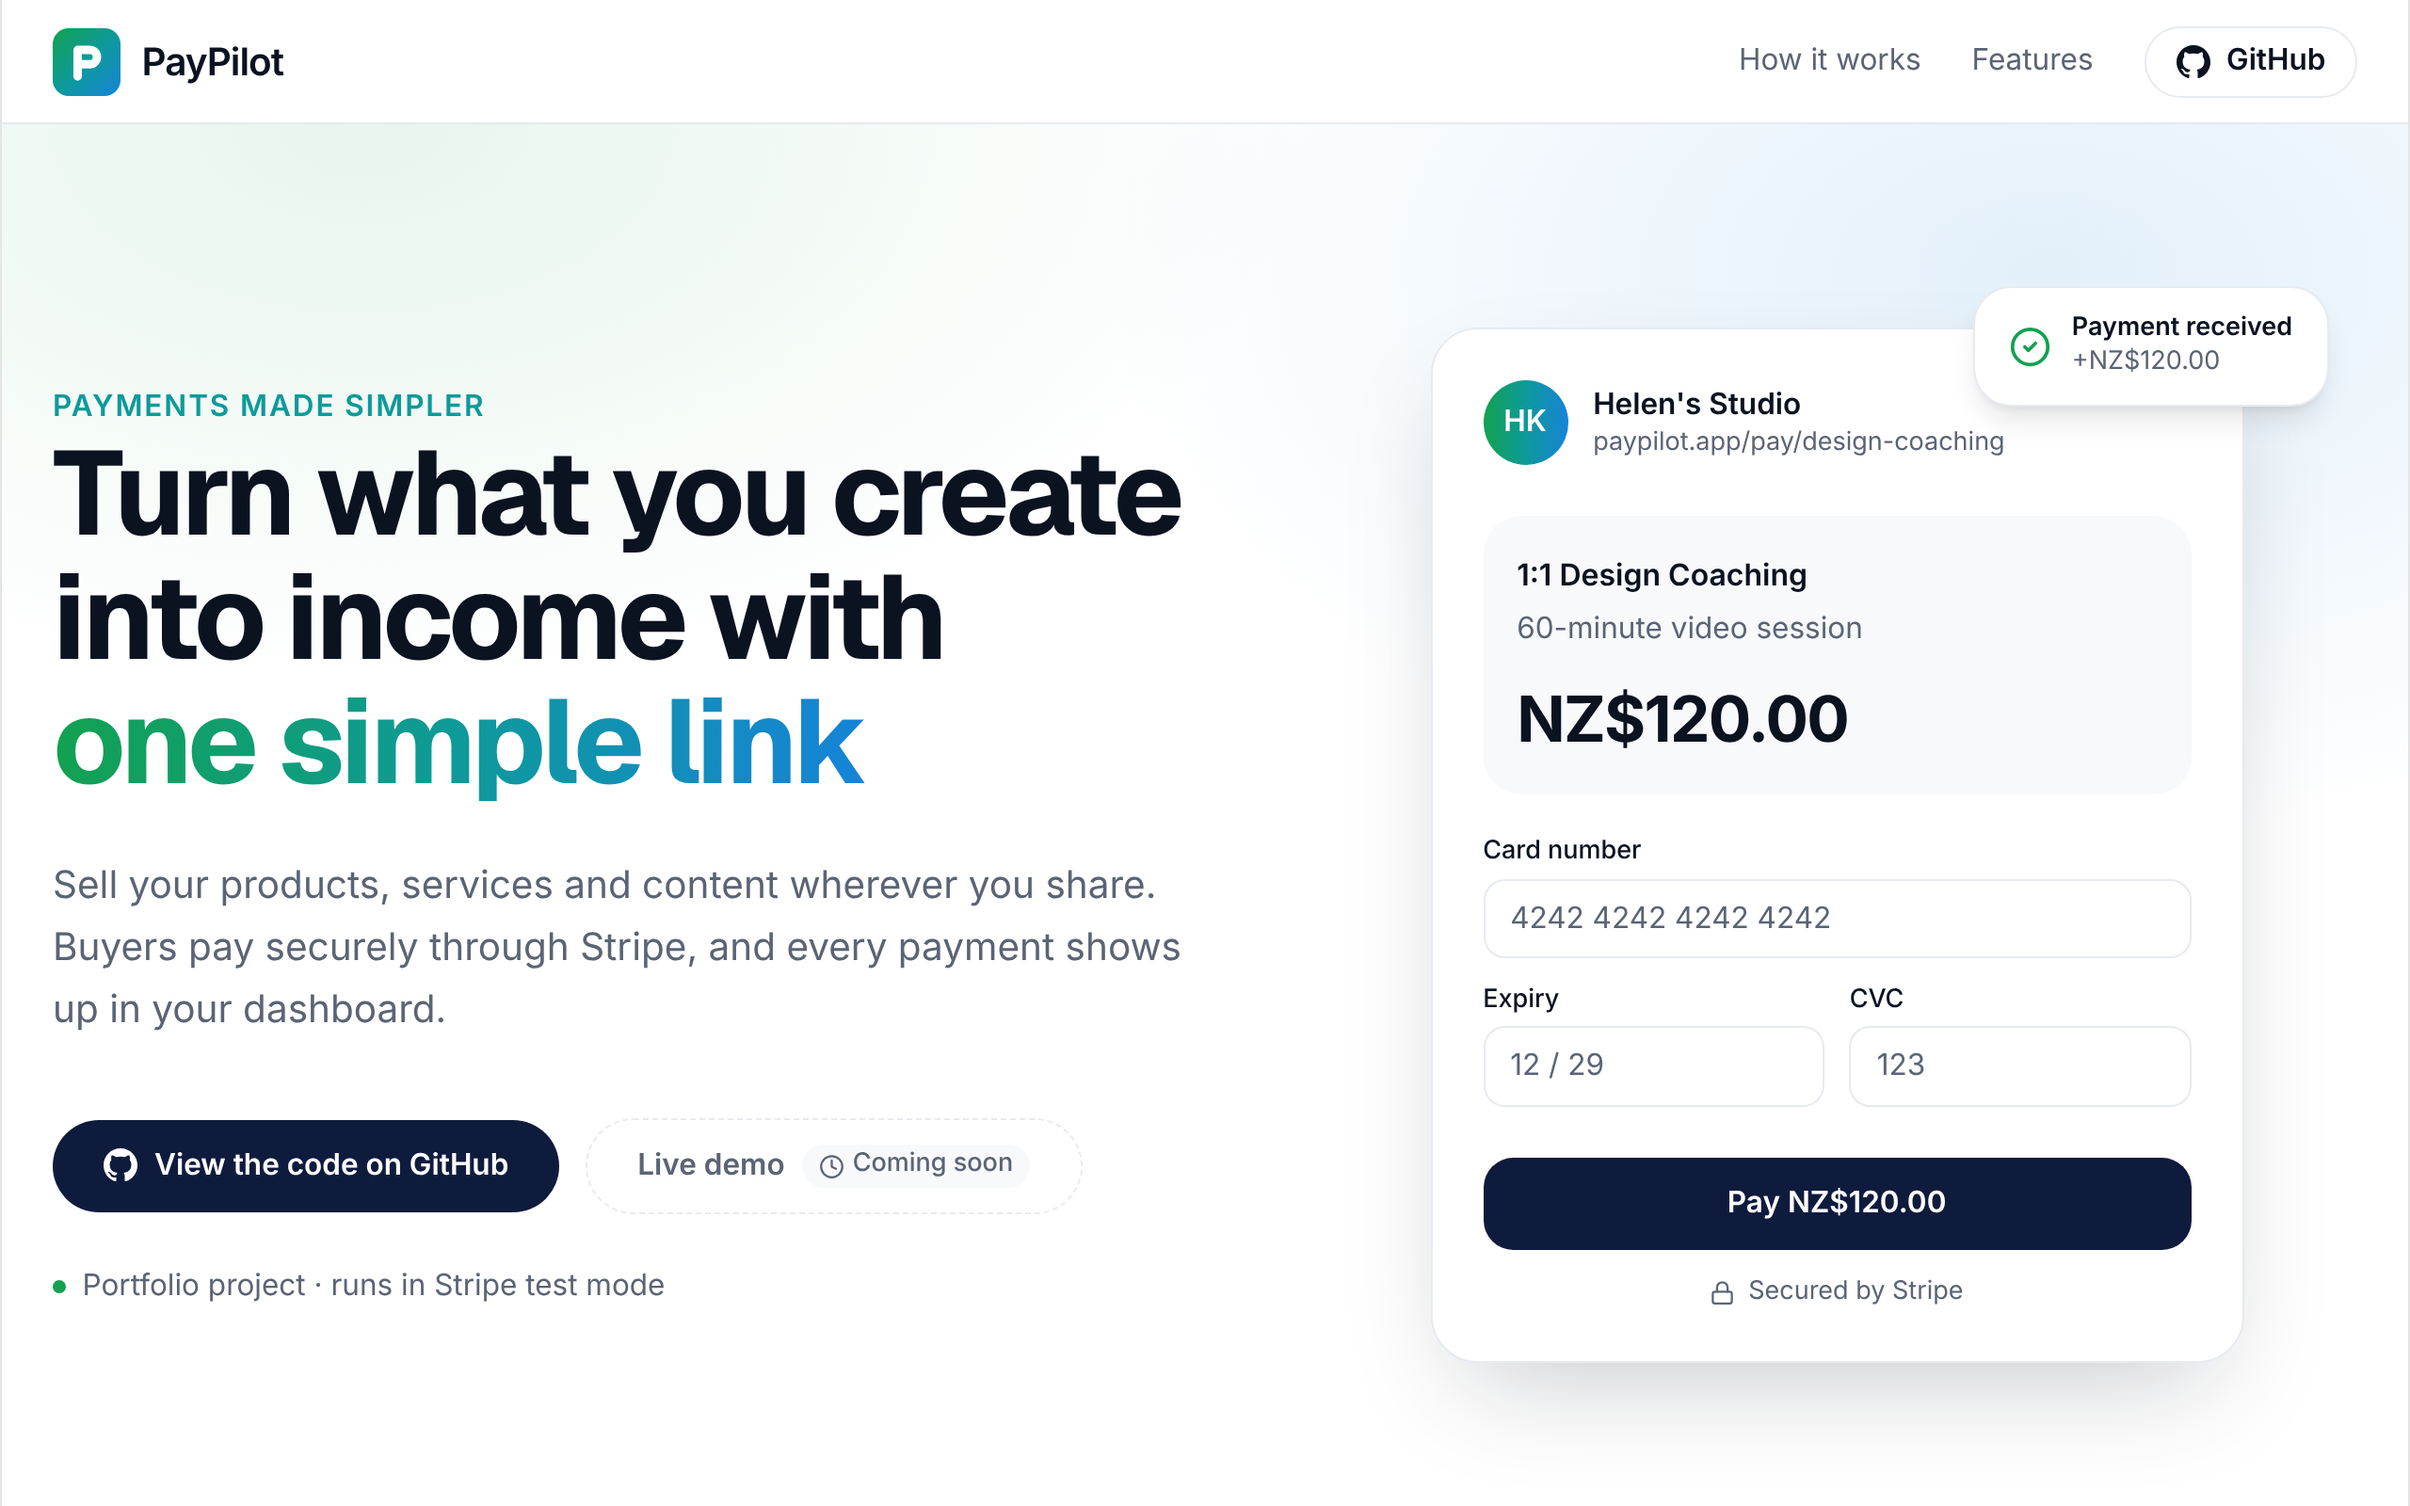
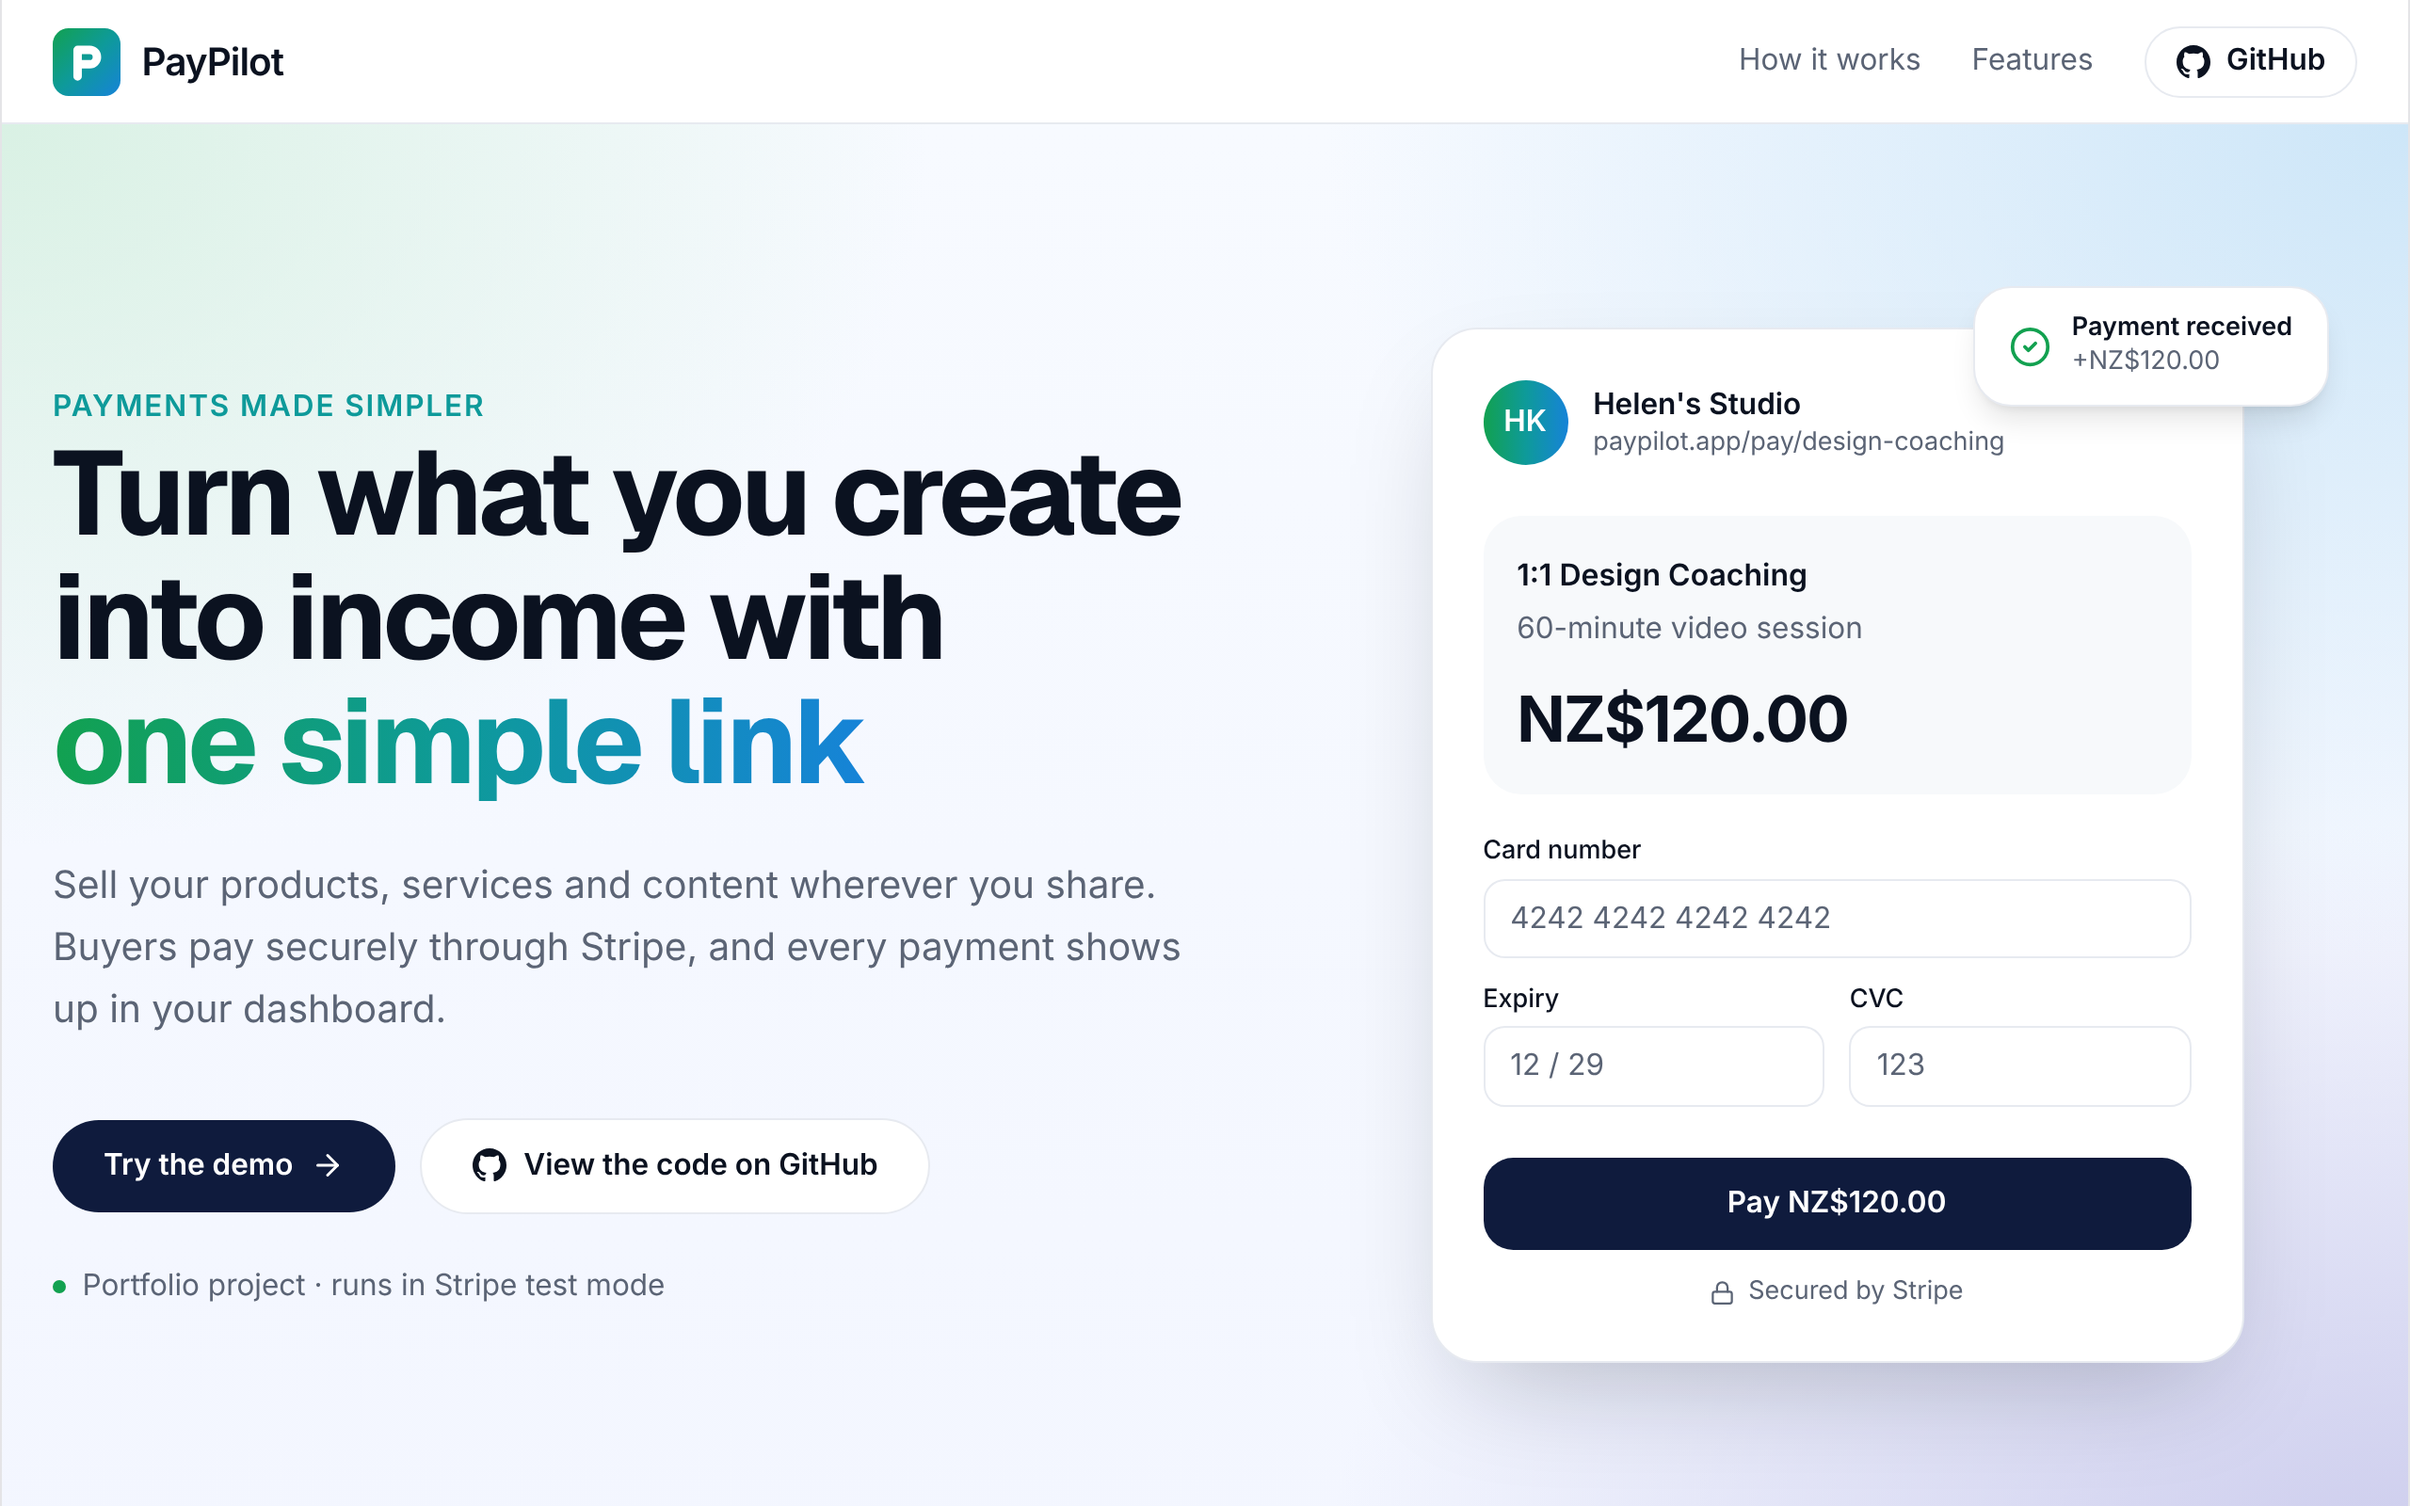
README: live demo instructions, new screenshots, project status
- Explain how to try the live demo (Try the demo, create a link, pay
  with the 4242 test card) and that it runs in Stripe test mode
- Replace the landing screenshot and add a demo dashboard screenshot
- Replace the old Features/Future Improvements lists with a
  "Working now" / "In progress" status section
- Document VITE_DEMO_MODE and the demo reset; mark Analytics as coming soon

Claude-Session: https://claude.ai/code/session_01PkSZFfYwMiS2WcQQvTcksy

Changed region(s): [[0.6875, 0.7188, 1.0, 1.0], [0.0312, 0.7188, 0.4062, 0.8125], [0.9375, 0.0625, 1.0, 0.1875]]

diff --git a/README.md b/README.md
@@ -4,32 +4,38 @@ PayPilot is a full-stack payment links application designed for content creators
 
 This MVP demonstrates modern frontend architecture, TypeScript, API integration, payment workflows, form handling, and full-stack collaboration between a React frontend and Node.js backend.
 
-**🔗 Live site: [paypilot-gamma.vercel.app](https://paypilot-gamma.vercel.app)**
+**🔗 Live demo: [paypilot-gamma.vercel.app](https://paypilot-gamma.vercel.app)**
 
-The landing page is live. The interactive demo of the creator dashboard is coming soon.
+Click **Try the demo** to open the creator dashboard with sample data (no sign-up needed). Create a payment link, open it, and pay with Stripe's test card `4242 4242 4242 4242` (any future expiry date and any CVC). The payment appears in the dashboard once Stripe's webhook confirms it.
+
+The demo runs in Stripe **test mode**, so no real money moves. Editing and deleting links are turned off in the demo, and the sample data is reset regularly.
 
 [![PayPilot landing page](docs/landing-page.png)](https://paypilot-gamma.vercel.app)
 
----
-
-## ✨ Features
-
-- Create reusable payment links for products or services
-- Generate unique public payment URLs
-- Accept secure payments using Stripe Payment Element
-- Display seller, product, amount, and payment information
-- Handle payment success and error states
+![PayPilot demo dashboard](docs/demo-dashboard.png)
 
 ---
 
-## ✨ Future Improvements
+## ✅ Project Status
 
-- Track payment link status and usage
-- Dashboard for managing payment links
-- Payment analytics
-- Copy payment links directly from the dashboard
-- Responsive user interface
-- Accessible form controls and interactions
+### Working now
+
+- Public landing page
+- **Creator dashboard**: every payment link with its status, number of completed payments and revenue
+- **Create payment links** with a unique, shareable public URL, then copy or open them from the dashboard
+- **Public payment page** with Stripe Payment Element (card details go straight to Stripe, never to PayPilot)
+- **Stripe webhook** that verifies every event's signature before recording a payment as succeeded
+- **Payment confirmation page** that waits for the webhook, then shows the receipt (and the download link for digital products)
+- **Demo mode** with realistic sample data and a reset script (`npm run db:seed`)
+
+### In progress
+
+- Recording **failed payments** (`payment_intent.payment_failed`)
+- Creating the Stripe PaymentIntent when the buyer is ready to pay, not on every page view
+- **Analytics** charts (revenue and payments over time)
+- **Payment Links** page
+- **Authentication** and multiple sellers
+- **Automated tests** for the payment flow and the Stripe webhook
 
 ## 🛠 Tech Stack
 
@@ -335,6 +341,10 @@ VITE_STRIPE_PUBLISHABLE_KEY=your_stripe_test_publishable_key
 # Optional: production shows only the landing page unless this is "true".
 # Local development always has the app on.
 # VITE_APP_ENABLED=true
+
+# Optional: demo mode hides editing and deleting links in the dashboard and
+# blocks them in the API (read by both the frontend and the server).
+# VITE_DEMO_MODE=true
 ```
 
 The frontend calls the API on the same origin (`/api`), so no API URL is needed.
@@ -407,6 +417,7 @@ PayPilot is deployed on **Vercel**, and every push to `main` deploys automatical
 - The Express app runs as a single Vercel Function (`api/index.ts`). `vercel.json` routes `/api/*` to it and every other path to the React app.
 - Database schema changes are applied to production with `npm run db:migrate:deploy`.
 - `VITE_APP_ENABLED` is a feature flag: while it is unset, production serves only the landing page.
+- `VITE_DEMO_MODE` turns on demo mode for the public demo, and `npm run db:seed` resets the demo data.
 
 ---
 
@@ -416,14 +427,14 @@ PayPilot is deployed on **Vercel**, and every push to `main` deploys automatical
 /                    Landing page
 /dashboard           Payment links dashboard
 /create-payment      Create a payment link
-/analytics           Analytics
+/analytics           Analytics (coming soon)
 /pay/:slug           Public payment page
 /pay/:slug/success   Payment confirmation
 ```
 
 ### Dashboard
 
-View and manage existing payment links.
+See every payment link with its status, completed payments and revenue, and copy or open each link.
 
 ### Create
 
@@ -431,7 +442,7 @@ Create a new payment link.
 
 ### Analytics
 
-View payment and payment-link activity.
+Coming soon: revenue and payment charts.
 
 ### Public Payment Page
 
@@ -470,7 +481,7 @@ Potential future additions include:
 - Single-use payment links
 - Refund management
 - Email receipts
-- Improved webhook event handling
+- Recording failed and refunded payments from webhook events
 - Additional currencies
 - Subscription payments
 - Automated tests for the payment flow and Stripe webhook
